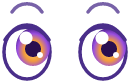
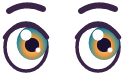
Turn Lumi into the King of Alchemy with an original young-alchemist design
- New Lumi art: spiky copper hair, long teal alchemist coat, crystal gauntlet,
  four-element staff and a rotating transmutation circle (replaces the wings)
- Dialogue and docs updated from 'Rainha' to 'o Lumi, Rei da Alquimia'
- Regenerated Lumi rig, parts and app icon

Claude-Session: https://claude.ai/code/session_01VjfUyp8cBEMDH9mJ6i9VdW

diff --git a/elemental-chaos/README.md b/elemental-chaos/README.md
@@ -1,7 +1,7 @@
 # Elemental Chaos
 
 Jogo **Match-3 com alquimia** para Android, iOS e HTML5, feito em **Defold** e **Lua**.
-O jogador é um aprendiz da **Lumi, Rainha da Alquimia**, e restaura o equilíbrio do Reino de
+O jogador é um aprendiz do **Lumi, Rei da Alquimia**, e restaura o equilíbrio do Reino de
 Luméria ao longo de **60 níveis** em 3 mundos. Cada combinação feita pelo jogador cria um
 **elemento carregado**; elementos carregados fundem-se com elementos diferentes para criar
 **10 compostos** (Vapor, Lava, Plasma, Vida, Gelo, Poeira, Tempestade, Obsidiana, Floresta e
@@ -146,11 +146,11 @@ python3 tools/audio/generate_audio.py              # OGG (precisa de numpy e ffm
 ```
 
 Para usar arte feita à mão basta substituir o PNG com o mesmo nome em `assets/...` (o atlas usa o nome
-do ficheiro como id). A Lumi é montada a partir de partes (`assets/lumi/*.png`) e de
-`data/lumi_rig.lua` (posição de cada parte e articulações); ao trocar a arte da Lumi mantém as partes
+do ficheiro como id). O Lumi é montada a partir de partes (`assets/lumi/*.png`) e de
+`data/lumi_rig.lua` (posição de cada parte e articulações); ao trocar a arte do Lumi mantém as partes
 alinhadas na mesma tela de 400×520 ou atualiza o rig.
 
-## Alterar os diálogos da Lumi
+## Alterar os diálogos do Lumi
 
 Todos os textos estão em `scripts/localization.lua` (chaves `lumi.*`, `tut.*`, `tip.*`, `story.*`).
 A escolha de falas (com rotação para não repetir) está em `scripts/lumi.lua`; os passos dos tutoriais

diff --git a/elemental-chaos/IMPLEMENTATION_STATUS.md b/elemental-chaos/IMPLEMENTATION_STATUS.md
@@ -18,7 +18,7 @@ runtime Defold 1.14.1 (build HTML5/wasm com `bob.jar`) num Chromium sem ecrã (r
 | Simulador/bot de partidas | Feito | `tests/simulate.lua`; também joga dentro do motor (`autoplay = 1`) |
 | Gravação (sys.save/sys.load), valores por omissão, migração v0→v1→v2 | Feito | Teste 24 (backend em memória). No motor só foi exercitado o caminho de escrita em HTML5 |
 | Tutoriais guiados (16 tutoriais), veu com abertura, mão animada, bloqueio de ações, saltar, persistência, repetir | Feito | Teste que executa todos os passos guiados; motor (níveis 1, 3, 31, 41, 51) |
-| Dicas: realce após 7 s parado; dica da Lumi após 4 jogadas sem progresso | Feito | Motor (dica de rochas no nível 20) |
+| Dicas: realce após 7 s parado; dica do Lumi após 4 jogadas sem progresso | Feito | Motor (dica de rochas no nível 20) |
 | Lumi: rig por partes, 6 olhos, 6 bocas, 8 estados, piscar, falar | Feito | Motor (menu, diálogos, vitória, derrota, descoberta) |
 | Menu principal, introdução (saltável), mapa com 60 níveis (nós reutilizados), popup de nível | Feito | Motor |
 | Livro de Alquimia (silhuetas, contador, "Novo!", detalhe), descoberta com carta | Feito | Motor |
